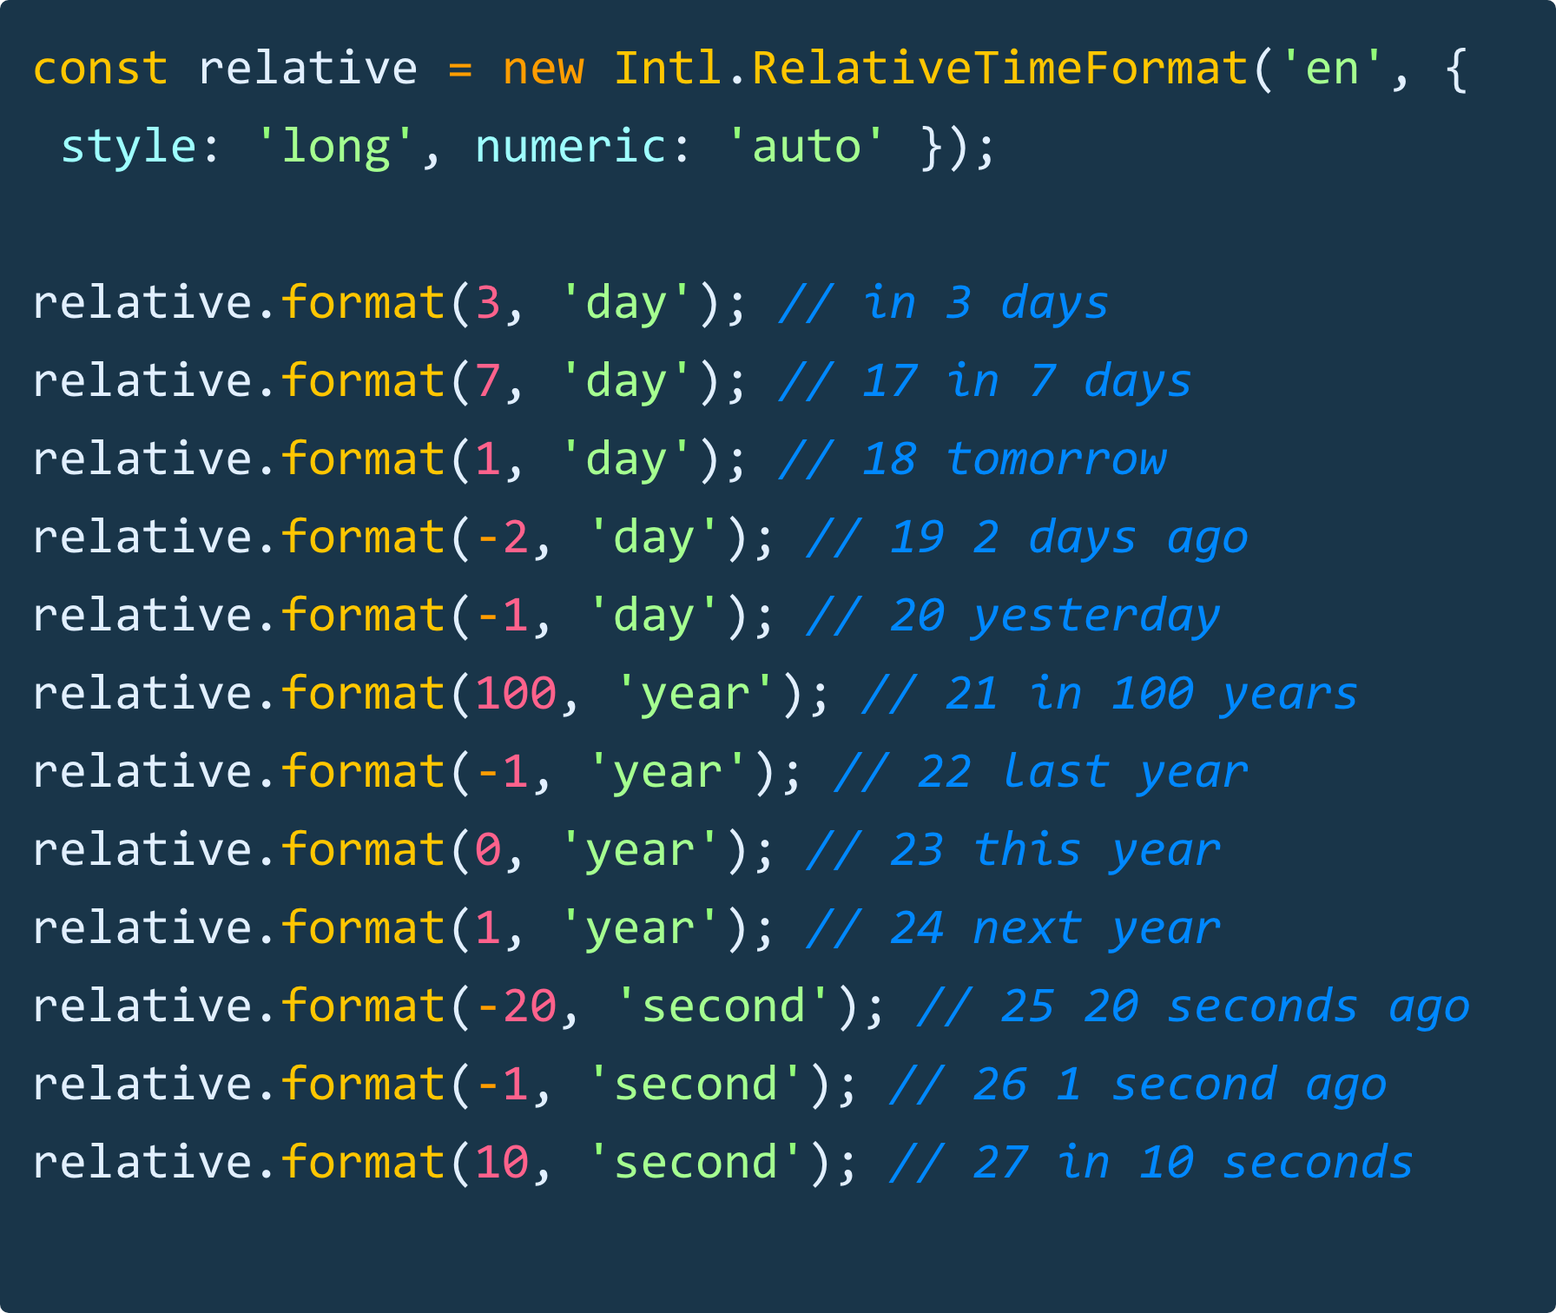
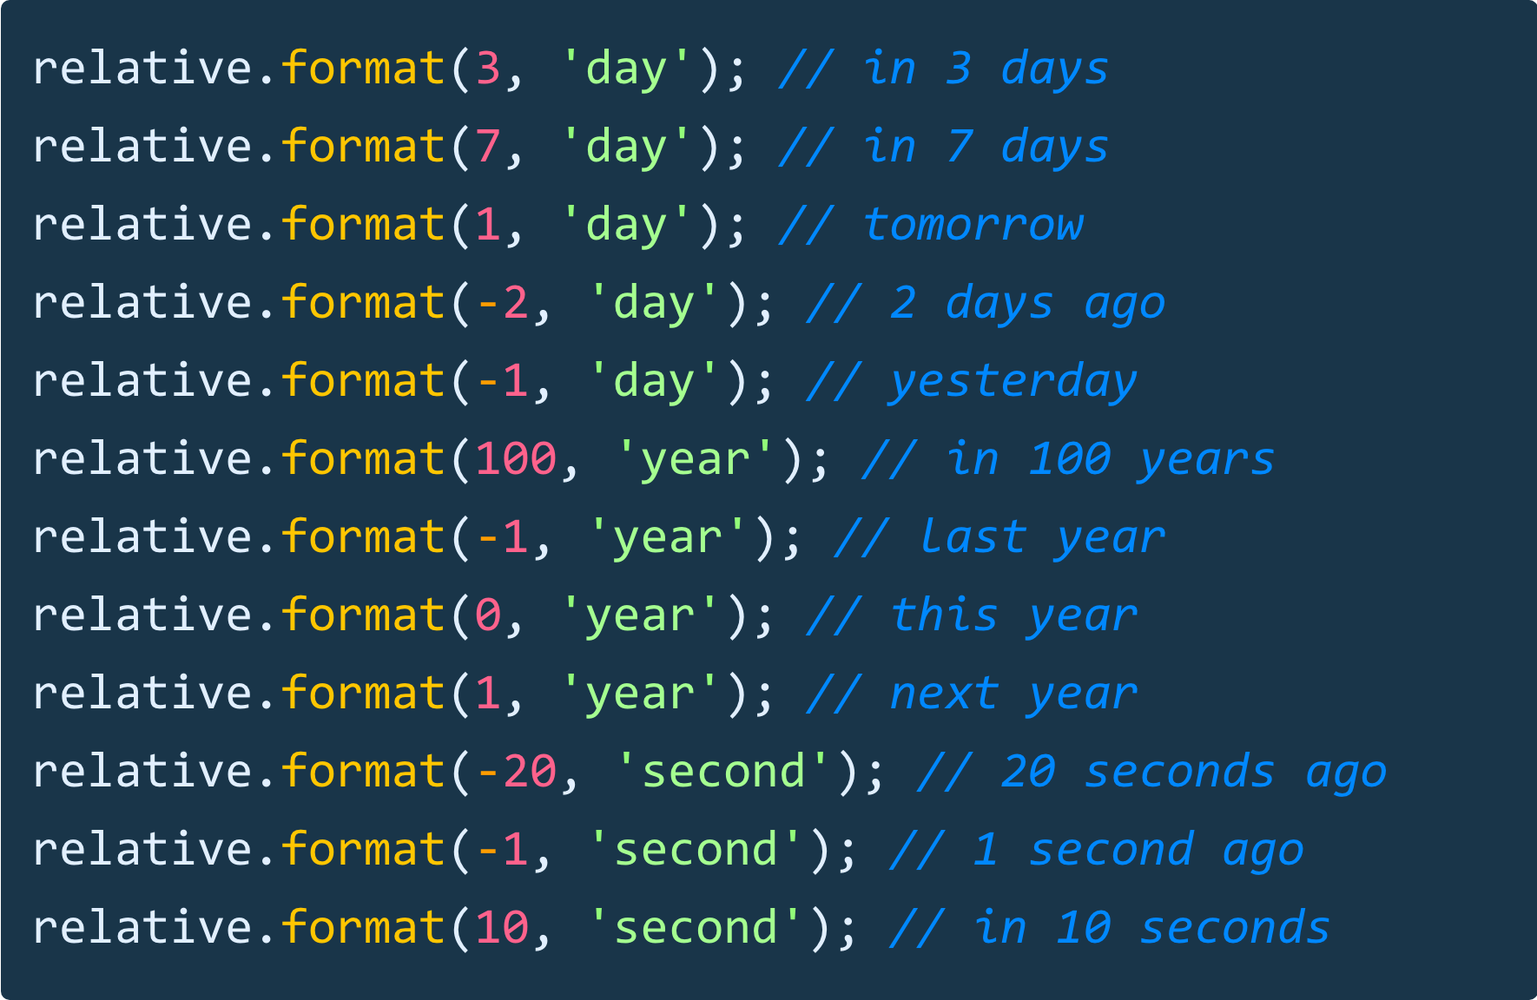
updates

diff --git a/index.html b/index.html
@@ -1,1 +1,1 @@
-<!DOCTYPE html><html><head><title>Just JavaScript</title><meta charset="utf-8"><script src="slides.js"></script><link href="https://fonts.googleapis.com/css?family=Bevan|Carter+One|Shrikhand" rel="stylesheet"><link href="styles.css" rel="stylesheet" type="text/css"></head><body><section class="slides layout-regular template-default"><article class="first"><h1 style="font-size:250px;">Slam Dunk JavaScript!</h1></article><article><h1>I&apos;m Wes Bos</h1><p><img src="images/canada-flag.png"></p><p>I make web development courses and have a podcast called Syntax</p></article><article><p style="font-size:60px;">These slides will be available shortly after this talk <br>I&apos;ll tweet the link out.</p><img src="images/Twitter_logo_white.png" width="300" style="margin:100px auto"><h2><a href="http://twitter.com/wesbos" target="_blank">@wesbos</a></h2></article><article><h1 style="font-size:250px;">Getting Better at JavaScript</h1><p>A mix bag of tips and techniques that will make you a better JS developer, regardless of which framework you use</p></article><article class="section"><h1>Intersection Observer</h1></article><article class="section"><h2>How do you know when an element is on screen?</h2></article><article><video src="./images/viewport.mp4" loop controls class="high"></video></article><article><p>With Intersection Observer, you can be alerted when an element is fully or partially scrolled into or out of view.</p></article><article><h2>Uses</h2><ul class="build"><li>Animate elements in on scroll</li><li>Play video on scroll in</li><li>Lazy Load images</li><li>Record views for ads beyond fold</li><li>Use with sticky headers</li></ul></article><article><video src="./images/intersection-observer.mp4" loop muted class="high"></video></article><article><video src="./images/sticky.mp4" loop controls class="high"></video><a href="https://developers.google.com/web/updates/2017/09/sticky-headers">Google Developers</a></article><article><h1>Ready for Meta?</h1></article><article><video src="./images/meta.mp4" loop controls></video></article><article><h1>How does it work?!</h1></article><article><h2>1. Options</h2><img src="./images/screenshots/muk4.png"></article><article><h2>2. Create an empty Observer</h2><img src="./images/screenshots/mupq.png" class="wide"></article><article><h2>3. Give it a callback</h2><img src="./images/screenshots/mvSI.png" class="wide"></article><article><h2>4. Observe Away!</h2><img src="./images/screenshots/mvbJ.png" class="wide"></article><article><img src="./images/screenshots/mvMC.png" class="wide"></article><article class="section"><h1>Resize Observer</h1><p class="sub">per-element resize events!</p></article><article><video style="width: auto; height: 100%; min-width: 0;" src="./images/resizeObserver.mp4" controls loop class="high"></video></article><article><img src="./images/screenshots/mvNd.png" class="high"></article><article class="section"><h1>Gateway Drug to Element Queries!</h1></article><article><img src="./images/screenshots/mvjO.png" class="high"></article><article><video style="width: auto; height: 100%; min-width: 0;" src="./images/resize-video-player.mp4" controls loop class="high"></video></article><article class="section"><h1>DOM Element Methods</h1><p class="sub">Handy, even in frameworks!</p></article><article><h2>.closest()</h2><p>Finds the closest ancestor that matches the passed selector</p></article><article class="nopad"><img src="http://wes.io/908f777858f5/content" class="blow"></article><article class="nopad"><img src="http://wes.io/485ae1221e63/content" class="blow"></article><article class="nopad"><img src="http://wes.io/5e6bc9cbd01c/content" class="blow"></article><article class="nopad"><img src="http://wes.io/1d14c376fc97/content" class="blow"></article><article class="nopad"><img src="http://wes.io/aa41e877d5e5/content" class="blow"><p>Great for Click Outside</p></article><article class="nopad"><img src="http://wes.io/5bc28ecf0a07/content" class="blow"></article><article><h2>.matches()</h2><p>Does this element match the selector?</p></article><article><img src="http://wes.io/1313804c1424/content" class="blow"></article><article><h2>Event Delegation</h2><img src="http://wes.io/3a0159ae934d/content" class="blow"></article><article><h2>.contains()</h2></article><article><img src="http://wes.io/b1c404dcb8ef/content" class="blow"></article><article><h2>Bling.js</h2><p>The best 11 lines of code</p></article><article class="nopad"><img src="http://wes.io/a3642690cd9d/content" class="blow"></article><article class="nopad"><img src="http://wes.io/4a9ce525e9dc/content" class="blow"></article><article class="nopad"><img src="http://wes.io/fae1dd0502e1/content" class="blow"></article><article class="nopad"><img src="http://wes.io/d475384aac9c/content" class="blow"></article><article class="nopad"><img src="http://wes.io/e9cc06f32da9/content" class="blow"></article><article><h1 class="medium">Intl methods()</h1></article><article><p>The Intl object is the namespace for the ECMAScript Internationalization API</p></article><article><h2>Intl. DateTimeFormat()</h2></article><article class="nopad"><img src="images/intl1.png" class="blow"></article><article><h2>Intl. RelativeTime Format()</h2></article><article class="nopad"><img src="images/intl2.png" class="blow"></article><article class="nopad"><img src="images/intl3.png" class="blow"></article><article><h2>Intl. Number Format()</h2></article><article class="nopad"><img src="images/intl4.png" class="blow"></article><article class="nopad"><img src="images/intl5.png" class="blow"></article><article class="nopad"><img src="images/intl6.png" class="blow"></article><article><h2>Intl. List Format()</h2></article><article class="nopad"><img src="images/intl7.png" class="blow"></article><article class="nopad"><img src="images/intl8.png" class="blow"></article><article><h2>Intl. Plural Rules()</h2></article><article class="nopad"><img src="images/intl9.png" class="blow"></article><article class="nopad"><img src="images/intl10.png" class="blow"></article><article><h2>Intl.Collator()</h2></article><article class="nopad"><img src="images/intl11.png" class="blow"></article><article><h1 class="medium">Data Massaging</h1></article><article><h1>Array.from()</h1><p>Turns an iterable into an array</p></article><article><img src="http://wes.io/461217f57fe5/content" class="blow"></article><article><img src="http://wes.io/c3e2ef19bbbb/content" class="blow"></article><article><img src="http://wes.io/3eb6342bfd63/content" class="blow"></article><article><h1>Unique-ify</h1></article><article><img src="http://wes.io/cc0b4155a41d/content" class="blow"></article><article><h1>...spread and ...rest</h1></article><article><img src="http://wes.io/32cf0bb19bc5/content" class="blow"></article><article><img src="http://wes.io/be507ee6f918/content" class="blow"></article><article><h2>Async Flow Control</h2></article><article><h2>Promises are an IOU for something that will happen in the future</h2></article><article><h1>They either resolve() or reject()</h1></article><article><img src="http://wes.io/1cbba7d77613/content" class="blow"></article><article><h2>Let's look at some patterns around handling different types of requests</h2></article><article><h1>Promise.all()</h1><p class="sub">When all resolve()</p><p class="sub">Short circuits when one reject()s</p></article><article><p>It takes an array of baby promises and makes a Mega promise</p><img src="http://wes.io/80df42462acf/content"><p>They run concurrently (at the same time)</p></article><article><h1>Promise.race()</h1><p class="sub">When one resolve() or reject()</p></article><article><img src="http://wes.io/6ce369ebdaa2/content" class="blow"></article><article><img src="http://wes.io/58e1e7a936d2/content" class="blow"></article><article><h1>Promise.any()</h1><p class="sub">When one resolve() or all reject()</p><p class="sub">Stage 1</p></article><article><img src="http://wes.io/4fe8f7a1c5a0/content" class="blow"></article><article><h1>Promise</h1><h1>.allSettled()</h1><p class="sub">When all finished - can be mix of resolve() or reject()</p><p class="sub">Stage 3</p></article><article><img src="http://wes.io/d79c5d287fc6/content" class="blow"></article><article><h1>Error Handling</h1><p class="sub">A few options</p></article><article><p class="sub">Option #1</p><h1>Make sure Errors Don't Happen</h1><p class="sub">Why waste dev time on something that should never happen? #ProblemSolved</p></article><article><p class="sub">Option #2</p><h1>Try / Catch</h1><p class="sub">Wrap that sucker in a safety blanket</p></article><article><img src="./images/screenshots/nslE.png" class="wide"></article><article><p class="sub">Option #3</p><h1>Higher Order Function</h1><p class="sub">Async Functions can chain a .catch()</p></article><article><p>Just Live Your Life</p><img src="./images/screenshots/nsg8.png" class="wide"></article><article><p>Create a HOF</p><img src="./images/screenshots/nsi4.png" class="high"></article><article><p>Hot Shot Implicit Return (WHAT)</p><img src="./images/screenshots/nsbK.png" class="wide"></article><article><p>Create a new function with your HOF</p><img src="https://wes.io/nsbz/content" class="wide"></article><article><h1>Very Handy in Node & Express!</h1></article><article><img src="https://wes.io/ntkI/content" class="wide"></article><article><img src="https://wes.io/nuqs/content" class="wide"><p>Normally we'd Handle each possible Error with next()</p></article><article><img src="https://wes.io/nunX/content" class="wide"></article><article><p>🤔 But that doesn't cover errors we throw, unhandled errors or syntax errors...</p></article><article><p>We need to catch all errors and pass along to the next middleware function</p></article><article><h1>Enter HOF</h1></article><article><img src="https://wes.io/nteh/content" class="wide"></article><article><p>Then we just wrap our routes!</p><img src="https://wes.io/nuda/content" class="wide"><p>Any unhandled error will simply get passed along to next()</p></article><article><p class="sub">Option #4</p><h1>Handle The Error When you Call it</h1></article><article><img src="https://wes.io/nyqR/content" class="wide"></article><article><p class="sub">Option #5</p><h2>Node's Unhandled Rejection Event</h2><p class="sub">Node.js will soon exit your process on unhandled rejected promises</p></article><article><img src="https://wes.io/ntqa/content" class="wide"></article><article><h1>Neat!</h1><p>This is the part of the talk where<br>I check how much time I have left</p></article><article><h1>Some Future Stuff</h1><p>Not totally a standard yet</p></article><article><h1>Web Speech Detection</h1><p>DEMO TIME</p></article><article><h1>Shape Detection</h1><p>Faces, Barcodes and Text</p><p>DEMO TIME</p></article><article><h1 class="big">Thanks Folks!</h1><p class="sub">Questions?</p><p class="sub">(I have lots of stickers too!)</p></article></section><script src="scripts.js"></script><script src="custom.js"></script></body></html>
+<!DOCTYPE html><html><head><title>Just JavaScript</title><meta charset="utf-8"><script src="slides.js"></script><link href="https://fonts.googleapis.com/css?family=Bevan|Carter+One|Shrikhand" rel="stylesheet"><link href="styles.css" rel="stylesheet" type="text/css"></head><body><section class="slides layout-regular template-default"><article class="first"><h1 style="font-size:250px;">Slam Dunk JavaScript!</h1></article><article><h1>I&apos;m Wes Bos</h1><p><img src="images/canada-flag.png"></p><p>from HAMILTON</p><p>I make web development courses and have a podcast called Syntax</p></article><article><p style="font-size:60px;">These slides will be available shortly after this talk <br>I&apos;ll tweet the link out.</p><img src="images/Twitter_logo_white.png" width="300" style="margin:100px auto"><h2><a href="http://twitter.com/wesbos" target="_blank">@wesbos</a></h2></article><article><h1 style="font-size:250px;">Getting Better at JavaScript</h1><p>A mix bag of tips and techniques that will make you a better JS developer, regardless of which framework you use</p></article><article class="section"><h1>Intersection Observer</h1></article><article class="section"><h2>How do you know when an element is on screen?</h2></article><article><video src="./images/viewport.mp4" loop controls class="high"></video></article><article><p>With Intersection Observer, you can be alerted when an element is fully or partially scrolled into or out of view.</p></article><article><h2>Uses</h2><ul class="build"><li>Animate elements in on scroll</li><li>Play video on scroll in</li><li>Lazy Load images</li><li>Record views for ads beyond fold</li><li>Use with sticky headers</li></ul></article><article><video src="./images/intersection-observer.mp4" loop muted class="high"></video></article><article><video src="./images/sticky.mp4" loop controls class="high"></video><a href="https://developers.google.com/web/updates/2017/09/sticky-headers">Google Developers</a></article><article><h1>Ready for Meta?</h1></article><article><video src="./images/meta.mp4" loop controls></video></article><article><h1>How does it work?!</h1></article><article><h2>1. Options</h2><img src="./images/screenshots/muk4.png"></article><article><h2>2. Create an empty Observer</h2><img src="./images/screenshots/mupq.png" class="wide"></article><article><h2>3. Give it a callback</h2><img src="./images/screenshots/mvSI.png" class="wide"></article><article><h2>4. Observe Away!</h2><img src="./images/screenshots/mvbJ.png" class="wide"></article><article><img src="./images/screenshots/mvMC.png" class="wide"></article><article class="section"><h1>Resize Observer</h1><p class="sub">per-element resize events!</p></article><article><video style="width: auto; height: 100%; min-width: 0;" src="./images/resizeObserver.mp4" controls loop class="high"></video></article><article><img src="./images/screenshots/mvNd.png" class="high"></article><article class="section"><h1>Gateway Drug to Element Queries!</h1></article><article><img src="./images/screenshots/mvjO.png" class="high"></article><article><video style="width: auto; height: 100%; min-width: 0;" src="./images/resize-video-player.mp4" controls loop class="high"></video></article><article class="section"><h1>DOM Element Methods</h1><p class="sub">Handy, even in frameworks!</p></article><article><h2>.closest()</h2><p>Finds the closest ancestor that matches the passed selector</p></article><article class="nopad"><img src="http://wes.io/908f777858f5/content" class="blow"></article><article class="nopad"><img src="http://wes.io/485ae1221e63/content" class="blow"></article><article class="nopad"><img src="http://wes.io/5e6bc9cbd01c/content" class="blow"></article><article class="nopad"><img src="http://wes.io/1d14c376fc97/content" class="blow"></article><article class="nopad"><img src="http://wes.io/aa41e877d5e5/content" class="blow"><p>Great for Click Outside</p></article><article class="nopad"><img src="http://wes.io/5bc28ecf0a07/content" class="blow"></article><article><h2>.matches()</h2><p>Does this element match the selector?</p></article><article><img src="http://wes.io/1313804c1424/content" class="blow"></article><article><h2>Event Delegation</h2><img src="http://wes.io/3a0159ae934d/content" class="blow"></article><article><h2>.contains()</h2></article><article><img src="http://wes.io/b1c404dcb8ef/content" class="blow"></article><article><h2>Bling.js</h2><p>The best 11 lines of code</p></article><article class="nopad"><img src="http://wes.io/a3642690cd9d/content" class="blow"></article><article class="nopad"><img src="http://wes.io/4a9ce525e9dc/content" class="blow"></article><article class="nopad"><img src="http://wes.io/fae1dd0502e1/content" class="blow"></article><article class="nopad"><img src="http://wes.io/d475384aac9c/content" class="blow"></article><article class="nopad"><img src="http://wes.io/e9cc06f32da9/content" class="blow"></article><article><h1 class="medium">Intl methods()</h1></article><article><p>The Intl object is the namespace for the ECMAScript Internationalization API</p></article><article><h2>Intl. DateTimeFormat()</h2></article><article class="nopad"><img src="images/intl1.png" class="blow"></article><article><h2>Intl. RelativeTime Format()</h2></article><article class="nopad"><img src="images/intl2.png" class="blow"></article><article class="nopad"><img src="images/intl3.png" class="blow"></article><article><h2>Intl. Number Format()</h2></article><article class="nopad"><img src="images/intl4.png" class="blow"></article><article class="nopad"><img src="images/intl5.png" class="blow"></article><article class="nopad"><img src="images/intl6.png" class="blow"></article><article><h2>Intl. List Format()</h2></article><article class="nopad"><img src="images/intl7.png" class="blow"></article><article class="nopad"><img src="images/intl8.png" class="blow"></article><article><h2>Intl. Plural Rules()</h2></article><article class="nopad"><img src="images/intl9.png" class="blow"></article><article class="nopad"><img src="images/intl10.png" class="blow"></article><article><h2>Intl.Collator()</h2></article><article class="nopad"><img src="images/intl11.png" class="blow"></article><article><h1 class="medium">Data Massaging</h1></article><article><h1>Array.from()</h1><p>Turns an iterable into an array</p></article><article><img src="http://wes.io/461217f57fe5/content" class="blow"></article><article><img src="http://wes.io/c3e2ef19bbbb/content" class="blow"></article><article><img src="http://wes.io/3eb6342bfd63/content" class="blow"></article><article><h1>Unique-ify</h1></article><article><img src="http://wes.io/cc0b4155a41d/content" class="blow"></article><article><h1>...spread and ...rest</h1></article><article><img src="http://wes.io/32cf0bb19bc5/content" class="blow"></article><article><img src="http://wes.io/be507ee6f918/content" class="blow"></article><article><h2>Async Flow Control</h2></article><article><h2>Promises are an IOU for something that will happen in the future</h2></article><article><h1>They either resolve() or reject()</h1></article><article><img src="http://wes.io/1cbba7d77613/content" class="blow"></article><article><h2>Let's look at some patterns around handling different types of requests</h2></article><article><h1>Promise.all()</h1><p class="sub">When all resolve()</p><p class="sub">Short circuits when one reject()s</p></article><article><p>It takes an array of baby promises and makes a Mega promise</p><img src="http://wes.io/80df42462acf/content"><p>They run concurrently (at the same time)</p></article><article><h1>Promise.race()</h1><p class="sub">When one resolve() or reject()</p></article><article><img src="http://wes.io/6ce369ebdaa2/content" class="blow"></article><article><img src="http://wes.io/58e1e7a936d2/content" class="blow"></article><article><h1>Promise.any()</h1><p class="sub">When one resolve() or all reject()</p><p class="sub">Stage 1</p></article><article><img src="http://wes.io/4fe8f7a1c5a0/content" class="blow"></article><article><h1>Promise</h1><h1>.allSettled()</h1><p class="sub">When all finished - can be mix of resolve() or reject()</p><p class="sub">Stage 3</p></article><article><img src="http://wes.io/d79c5d287fc6/content" class="blow"></article><article><h1>Error Handling</h1><p class="sub">A few options</p></article><article><p class="sub">Option #1</p><h1>Make sure Errors Don't Happen</h1><p class="sub">Why waste dev time on something that should never happen? #ProblemSolved</p></article><article><p class="sub">Option #2</p><h1>Try / Catch</h1><p class="sub">Wrap that sucker in a safety blanket</p></article><article><img src="./images/screenshots/nslE.png" class="wide"></article><article><p class="sub">Option #3</p><h1>Higher Order Function</h1><p class="sub">Async Functions can chain a .catch()</p></article><article><p>Just Live Your Life</p><img src="./images/screenshots/nsg8.png" class="wide"></article><article><p>Create a HOF</p><img src="./images/screenshots/nsi4.png" class="high"></article><article><p>Hot Shot Implicit Return (WHAT)</p><img src="./images/screenshots/nsbK.png" class="wide"></article><article><p>Create a new function with your HOF</p><img src="https://wes.io/nsbz/content" class="wide"></article><article><h1>Very Handy in Node & Express!</h1></article><article><img src="https://wes.io/ntkI/content" class="wide"></article><article><img src="https://wes.io/nuqs/content" class="wide"><p>Normally we'd Handle each possible Error with next()</p></article><article><img src="https://wes.io/nunX/content" class="wide"></article><article><p>🤔 But that doesn't cover errors we throw, unhandled errors or syntax errors...</p></article><article><p>We need to catch all errors and pass along to the next middleware function</p></article><article><h1>Enter HOF</h1></article><article><img src="https://wes.io/nteh/content" class="wide"></article><article><p>Then we just wrap our routes!</p><img src="https://wes.io/nuda/content" class="wide"><p>Any unhandled error will simply get passed along to next()</p></article><article><p class="sub">Option #4</p><h1>Handle The Error When you Call it</h1></article><article><img src="https://wes.io/nyqR/content" class="wide"></article><article><p class="sub">Option #5</p><h2>Node's Unhandled Rejection Event</h2><p class="sub">Node.js will soon exit your process on unhandled rejected promises</p></article><article><img src="https://wes.io/ntqa/content" class="wide"></article><article><h1>Neat!</h1><p>This is the part of the talk where<br>I check how much time I have left</p></article><article><h1>Some Future Stuff</h1><p>Not totally a standard yet</p></article><article><h1>Web Speech Detection</h1><p>DEMO TIME</p></article><article><h1 class="big">Thanks Folks!</h1><p class="sub">Questions?</p><p class="sub">(I have lots of stickers too!)</p></article></section><script src="scripts.js"></script><script src="custom.js"></script></body></html>

diff --git a/intl.js b/intl.js
@@ -16,17 +16,17 @@ new Intl.DateTimeFormat('fr-CA', { dateStyle: 'long' }).format(now);
 const relative = new Intl.RelativeTimeFormat('en', { style: 'long', numeric: 'auto' });
 
 relative.format(3, 'day'); // in 3 days
-relative.format(7, 'day'); // 17 in 7 days
-relative.format(1, 'day'); // 18 tomorrow
-relative.format(-2, 'day'); // 19 2 days ago
-relative.format(-1, 'day'); // 20 yesterday
-relative.format(100, 'year'); // 21 in 100 years
-relative.format(-1, 'year'); // 22 last year
-relative.format(0, 'year'); // 23 this year
-relative.format(1, 'year'); // 24 next year
-relative.format(-20, 'second'); // 25 20 seconds ago
-relative.format(-1, 'second'); // 26 1 second ago
-relative.format(10, 'second'); // 27 in 10 seconds
+relative.format(7, 'day'); // in 7 days
+relative.format(1, 'day'); // tomorrow
+relative.format(-2, 'day'); // 2 days ago
+relative.format(-1, 'day'); // yesterday
+relative.format(100, 'year'); // in 100 years
+relative.format(-1, 'year'); // last year
+relative.format(0, 'year'); // this year
+relative.format(1, 'year'); // next year
+relative.format(-20, 'second'); // 20 seconds ago
+relative.format(-1, 'second'); // 1 second ago
+relative.format(10, 'second'); // in 10 seconds
 
 var relativeFR = new Intl.RelativeTimeFormat('fr', { style: 'long', numeric: 'auto' });
 
